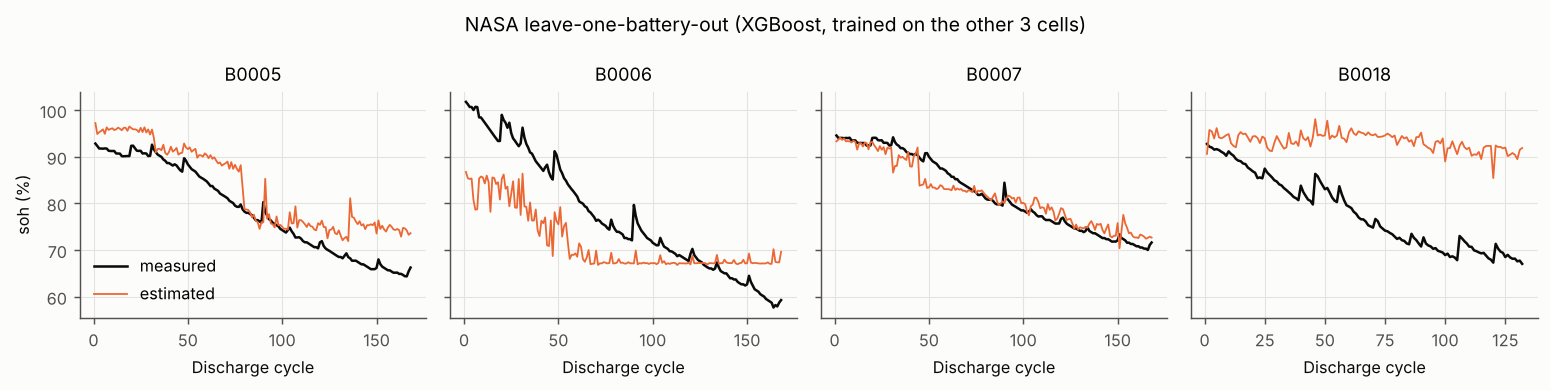
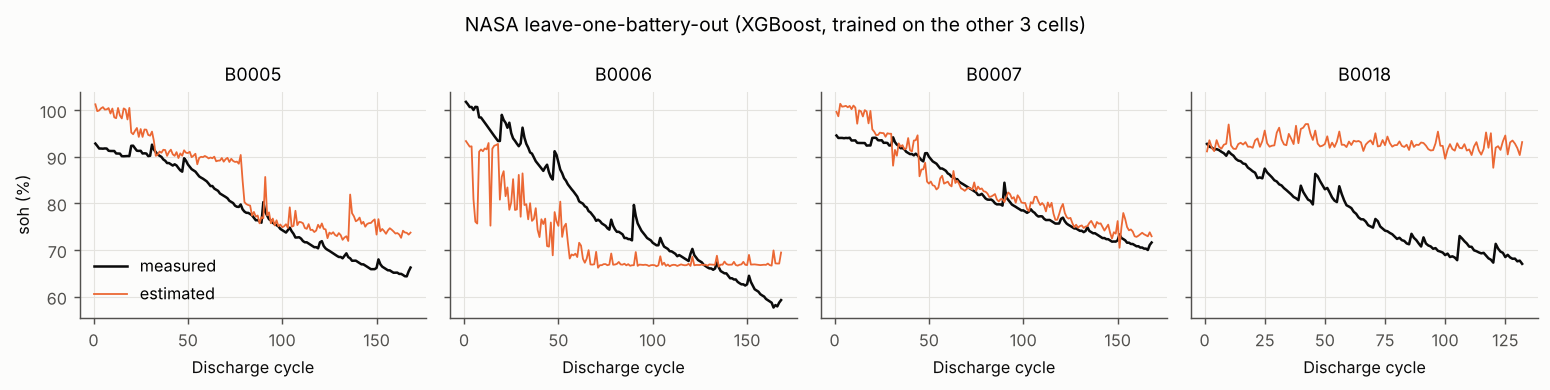
Re-run experiments after the review fixes; refresh results and docs
MIT headline results are unchanged. NASA results changed (no back-filled
impedance, robust soh_init): tree LOBO 8.3-8.8 %, zero-shot 11.4 %, Ridge LOBO
13.6 %. Robustness split now 0.52 +/- 0.10 (range 0.36-0.67). Health-monitor
figure uses the 80.5 % REPLACE level.

Claude-Session: https://claude.ai/code/session_01VJCbXvQMrgTkJmtjDhcNKw

diff --git a/reports/RESULTS.md b/reports/RESULTS.md
@@ -46,7 +46,7 @@ Each feature alone, on training cells only. `r2_single_cv` = cross-cell R² of a
 | dq_min_log | F6 partial dQ(V) | -0.87 | -0.99 | 0.848 | caution | log10 |min| of the same curve difference |
 | dq_mean | F6 partial dQ(V) | 0.84 | 0.97 | 0.823 | caution | Mean of the curve difference in the partial window |
 | chargetime | F7 protocol | -0.52 | -0.83 | 0.071 | ablation | Total charge time: mostly encodes which of 72 policies was used |
-| cycle | F9 age | -0.74 | -1.00 | 0.288 | ablation | Cycle count: shortcut, lifetimes span 150-2,300 cycles |
+| cycle | F9 age | -0.74 | -1.00 | 0.288 | ablation | Cycle count: shortcut, lifetimes span 170-2,240 cycles |
 | QD | X1 label | 1.00 | 1.00 | 1.000 | EXCLUDED (physics/definition) | IS the label |
 | QC | X2 charge capacity | 1.00 | 1.00 | 0.999 | EXCLUDED (physics/definition) | Coulombic efficiency ~1 so QC ~ QD |
 | dis_time | X3 discharge time | 0.95 | 1.00 | 0.943 | EXCLUDED (physics/definition) | Q = I*t with I fixed at 4.4 A |
@@ -125,19 +125,19 @@ Same 84 cells (train + primary), same model, 50 % held out either as random **ro
 
 ![leakage](figures/07b_leakage.png)
 
-**Robustness:** XGBoost (A4) over 10 random 80/20 *cell* splits of all 124 cells: RMSE 0.515 ± 0.104 % SOH (range 0.33–0.66).
+**Robustness:** XGBoost (A4) over 10 random 80/20 *cell* splits of all 124 cells: RMSE 0.520 ± 0.101 % SOH (range 0.36–0.67).
 
 ## 6. NASA — template R4 (O5)
 
 | Model | Setting | B0005 | B0006 | B0007 | B0018 | Mean ± std |
 |---|---|---|---|---|---|---|
-| ridge | NASA LOBO (label soh) | 4.31 | 9.94 | 5.89 | 13.41 | 8.39 ± 3.55 |
-| rf | NASA LOBO (label soh) | 6.09 | 9.73 | 3.43 | 18.53 | 9.44 ± 5.70 |
-| xgb | NASA LOBO (label soh) | 5.62 | 9.46 | 2.44 | 16.92 | 8.61 ± 5.40 |
-| rf | MIT → NASA zero-shot (soh_init); MIT sanity 1.91 | 9.13 | 17.32 | 6.54 | 15.52 | 12.13 ± 4.43 |
-| xgb | MIT → NASA zero-shot (soh_init); MIT sanity 1.90 | 8.10 | 16.05 | 5.67 | 16.01 | 11.46 ± 4.65 |
+| ridge | NASA LOBO (label soh) | 6.17 | 11.65 | 8.56 | 28.18 | 13.64 ± 8.62 |
+| rf | NASA LOBO (label soh) | 6.20 | 8.78 | 4.10 | 14.27 | 8.34 ± 3.80 |
+| xgb | NASA LOBO (label soh) | 6.12 | 9.11 | 3.16 | 16.72 | 8.78 ± 5.05 |
+| rf | MIT → NASA zero-shot (soh_init); MIT sanity 1.90 | 8.26 | 16.43 | 6.31 | 14.38 | 11.35 ± 4.18 |
+| xgb | MIT → NASA zero-shot (soh_init); MIT sanity 1.89 | 8.45 | 15.50 | 6.95 | 14.84 | 11.43 ± 3.78 |
 
-NASA labels go down to 57.7 % SOH (56.7 % soh_init); MIT training labels only reach 76.4 % soh_init, and trees cannot extrapolate below their lowest training label.
+NASA labels go down to 57.7 % SOH (57.3 % soh_init); MIT training labels only reach 76.2 % soh_init, and trees cannot extrapolate below their lowest training label.
 
 ![nasa lobo](figures/08_nasa_lobo.png)
 
@@ -170,13 +170,13 @@ Top mean |SHAP| (main model): `chg_ic_peak_rm5` 2.33, `chg_ic_peak` 0.64, `d_chg
 
 | Model | Parameters / trees | File size (KB) | CPU inference per cycle (ms) | Needs full discharge? |
 |---|---|---|---|---|
-| XGBoost A4_plus_history | 1000 trees x depth<=6 | 3548 | 2.76 | yes (dQ(V) features) |
-| XGBoost A2_bms_charge | 1000 trees x depth<=6 | 3507 | 2.10 | no (charge segment, IR, temperature) |
-| Random Forest A4 | 300 trees, mean depth 32 | 749089 | 87.31 | yes (dQ(V) features) |
-| Ridge A4 | 34 coefficients | 3 | 1.56 | yes (dQ(V) features) |
-| LSTM (k=10) | 35361 | 142 | 0.55 | yes (dQ(V) features) |
-| GRU (k=10) | 26657 | 108 | 0.51 | yes (dQ(V) features) |
-| 1D-CNN (k=10) | 10561 | 48 | 0.19 | yes (dQ(V) features) |
+| XGBoost A4_plus_history | 1000 trees x depth<=6 | 3548 | 2.25 | yes (dQ(V) features) |
+| XGBoost A2_bms_charge | 1000 trees x depth<=6 | 3507 | 1.68 | no (charge segment, IR, temperature) |
+| Random Forest A4 | 300 trees, mean depth 32 | 749089 | 73.39 | yes (dQ(V) features) |
+| Ridge A4 | 34 coefficients | 3 | 1.17 | yes (dQ(V) features) |
+| LSTM (k=10) | 35361 | 142 | 0.38 | yes (dQ(V) features) |
+| GRU (k=10) | 26657 | 108 | 0.42 | yes (dQ(V) features) |
+| 1D-CNN (k=10) | 10561 | 48 | 0.20 | yes (dQ(V) features) |
 
 Timing is single-cycle Python inference on one CPU core of the build machine (includes Python call overhead), not a microcontroller.
 
@@ -193,5 +193,5 @@ Timing is single-cycle Python inference on one CPU core of the build machine (in
 | xgboost | 3.4.1 |
 | torch | 2.14.1+cpu |
 | seeds | [0, 1, 2] |
-| commit | fda23cc |
-| date | 2026-10-22 19:18 |
+| commit | c9ddb15 |
+| date | 2026-10-23 05:19 |

diff --git a/README.md b/README.md
@@ -95,7 +95,7 @@ models/                  deployable XGBoost models (main = A4, bms = A2) + train
 6. **Safety caveat: models are optimistic near end of life.** On the later batch no model's raw estimate
    crosses the 80.5 % alarm level before the cell does (missed alarms; RESULTS §3). A BMS must not use
    these estimates alone for retirement decisions without a safety margin or periodic reference tests.
-7. **Cross-chemistry transfer fails, as expected.** NASA leave-one-battery-out gives 8–9 % RMSE. MIT → NASA
+7. **Cross-chemistry transfer fails, as expected.** NASA leave-one-battery-out gives 8–9 % RMSE with trees (Ridge 13.6 %). MIT → NASA
    zero-shot gives ~11–12 %, and the trees floor at ~85 % because MIT labels never go as low as NASA's (57 %).
 
 ## Use in a battery management system

diff --git a/docs/LEARNING_GUIDE.md b/docs/LEARNING_GUIDE.md
@@ -71,7 +71,7 @@ The secondary set (batch 3) was cycled a year later → also tests batch shift.
 
 > ✅ **Verified** (RESULTS.md §5, same 84 cells, 50 % held out): random-row RMSE 0.15 (XGB) / 0.16 (RF)
 > vs cell-wise 0.56 / 0.65 → the wrong split looks **~4× better** than it is. Over 10 random 80/20 cell
-> splits of all 124 cells XGBoost scores 0.52 ± 0.10 (range 0.33–0.66): the official split is a
+> splits of all 124 cells XGBoost scores 0.52 ± 0.10 (range 0.36–0.67): the official split is a
 > harder-than-average draw, and the cell choice alone moves RMSE by 2×.
 
 **Exercise.** `reports/RESULTS.md` §5 shows the random-row split vs cell-wise split. Explain the gap
